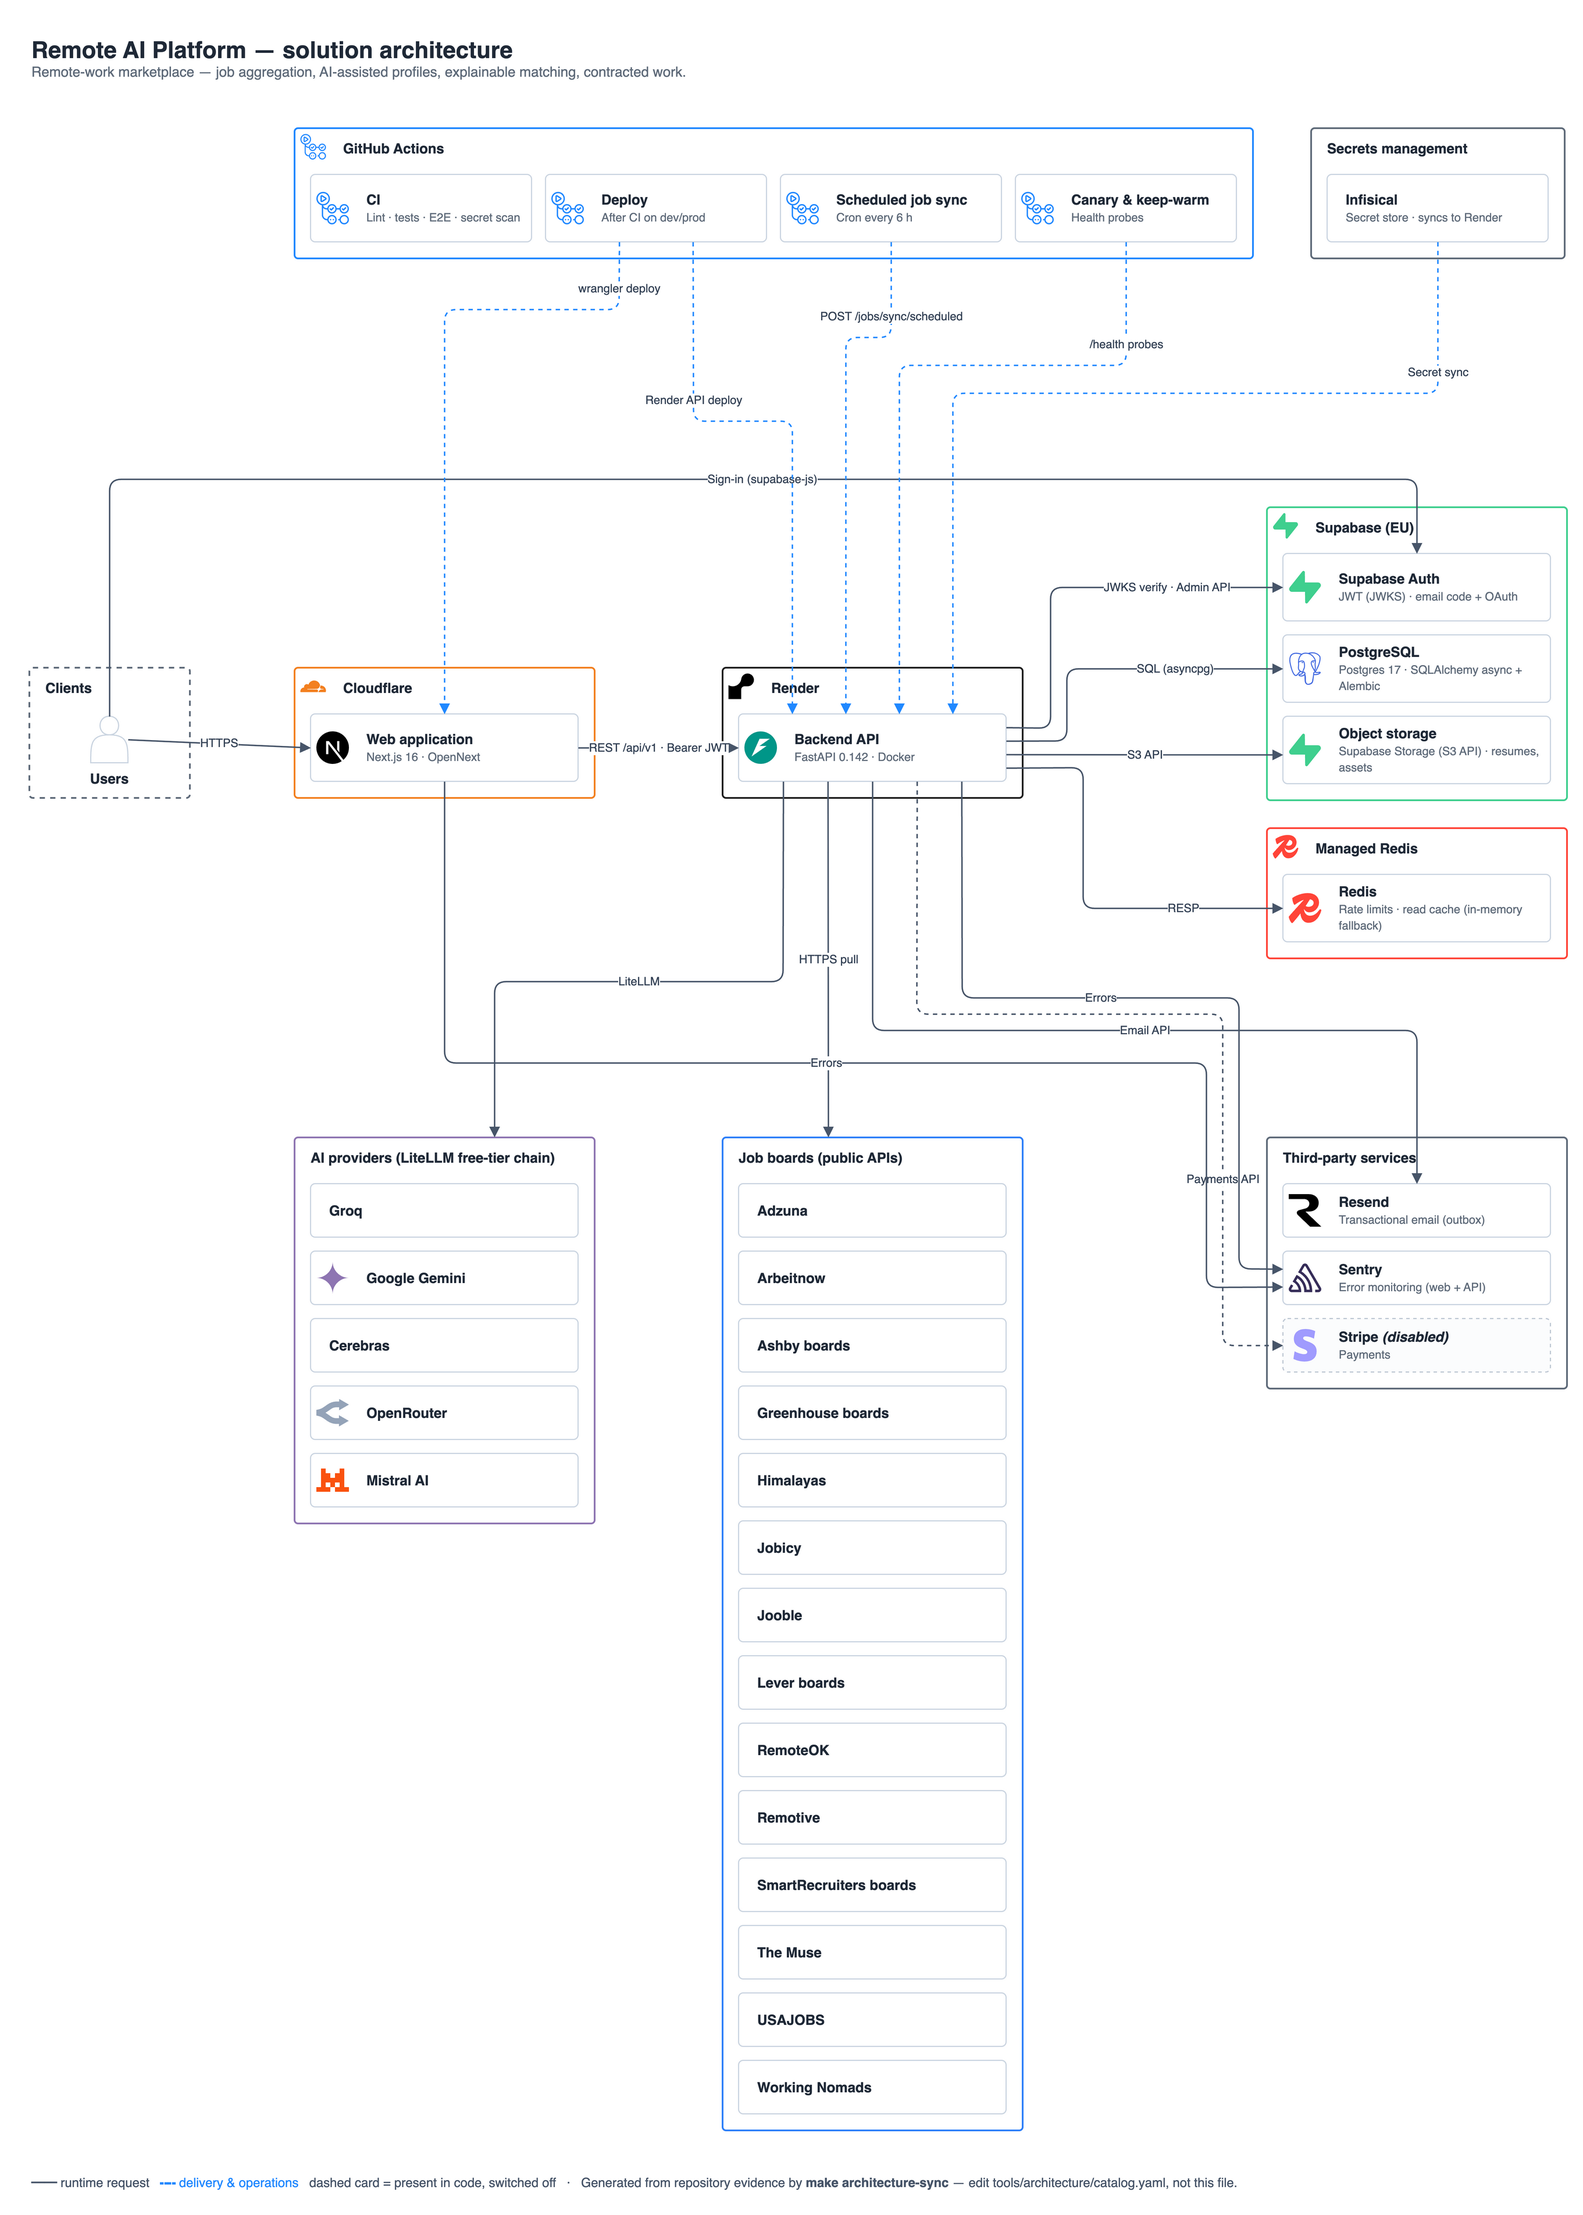
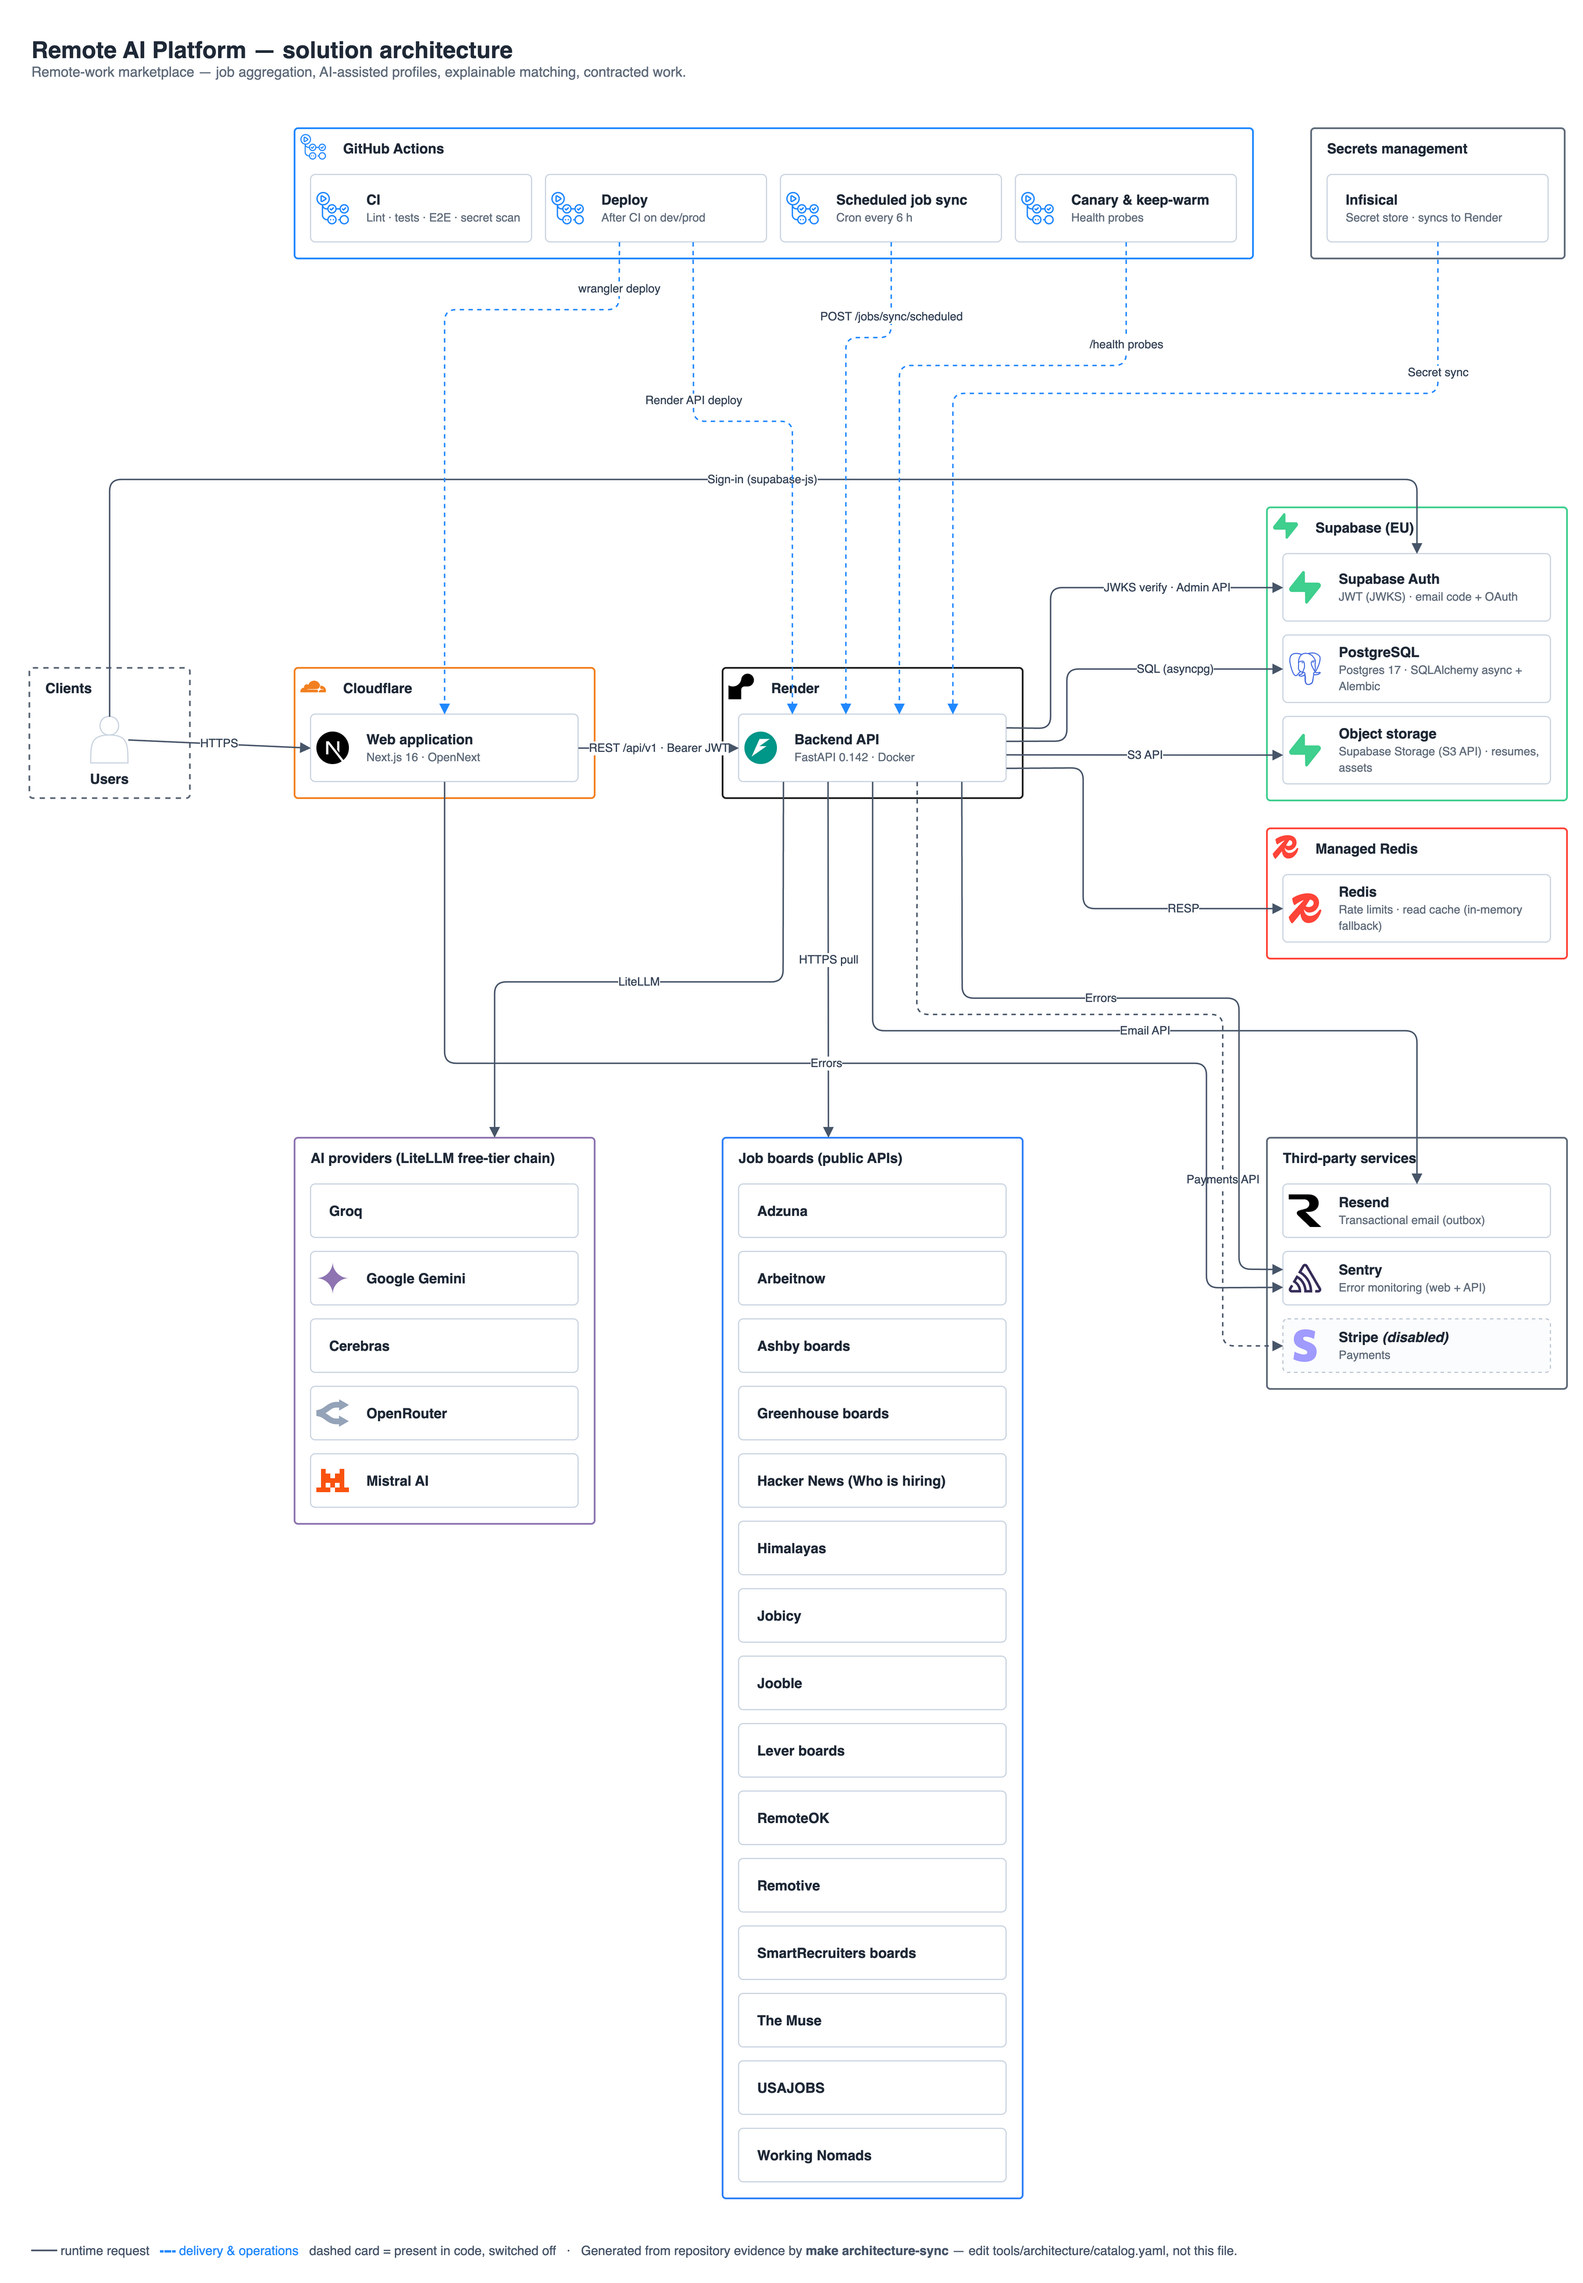
feat(jobs): Hacker News 'Who is hiring?' source; bigger per-run caps on the worker
- New free source: the monthly Ask HN: Who is hiring? thread via the Algolia HN API (~200
  employer posts a month), parsed to company, role and place, linking back to each post.
- Imports run on GitHub's runner now, so the per-source cap rises to 10,000 and Arbeitnow
  reads up to 50 pages.

diff --git a/apps/api/app/domains/jobs/aggregators/public_boards.py b/apps/api/app/domains/jobs/aggregators/public_boards.py
@@ -11,6 +11,7 @@ default to large employers whose public boards were verified live.
 
 import asyncio
 import html
+import re
 from datetime import UTC, datetime
 
 import httpx
@@ -415,3 +416,81 @@ class JoobleAggregator(_Board):
             if job:
                 out.append(job)
         return out
+
+
+ROLE_WORDS = re.compile(
+    r"engineer|developer|programmer|designer|manager|scientist|analyst|architect|"
+    r"\blead\b|head of|director|researcher|recruiter|writer|marketer|sales|support|"
+    r"devops|\bsre\b|\bqa\b|founding|\broles?\b|positions|intern|specialist|consultant",
+    re.I,
+)
+
+
+class HackerNewsAggregator(_Board):
+    """Hacker News "Ask HN: Who is hiring?" (monthly), via the free Algolia HN API.
+    Each top-level post is one employer: "Company | Role | Location | Remote | ...";
+    the job links back to the post."""
+
+    source_name = "HACKERNEWS"
+
+    async def fetch_jobs(self, limit: int = 100) -> list[JobPostCreate]:
+        try:
+            async with httpx.AsyncClient(timeout=TIMEOUT) as client:
+                s = await client.get(
+                    "https://hn.algolia.com/api/v1/search_by_date",
+                    params={
+                        "tags": "story,author_whoishiring",
+                        "query": "who is hiring",
+                        "hitsPerPage": 5,
+                    },
+                )
+                s.raise_for_status()
+                story = next(
+                    h for h in s.json()["hits"] if h["title"].startswith("Ask HN: Who is hiring?")
+                )
+                r = await client.get(f"https://hn.algolia.com/api/v1/items/{story['objectID']}")
+                r.raise_for_status()
+                posts = r.json().get("children", [])
+        except Exception as e:
+            raise SourceFetchError(type(e).__name__) from e
+        out = []
+        for p in posts:
+            text = p.get("text") or ""
+            if not text or not p.get("id"):
+                continue
+            first = html.unescape(text.split("<p>")[0])
+            parts = [self.clean_text(x) for x in first.split("|") if self.clean_text(x)]
+            if len(parts) < 2:
+                continue
+            company = (
+                re.sub(
+                    r"\s*(https?://\S+|\(?[\w.-]+\.(com|io|ai|co|dev|org|net)\)?)\s*", " ", parts[0]
+                ).strip()
+                or parts[0]
+            )
+            role = next((x for x in parts[1:] if ROLE_WORDS.search(x) and "http" not in x), "")
+            if not role:
+                continue
+            # Prefer a field naming a place ("Berlin, Germany"), then a work mode.
+            others = [x for x in parts[1:] if x != role and not ROLE_WORDS.search(x)]
+            where = next((x for x in others if "," in x), "") or next(
+                (
+                    x
+                    for x in others
+                    if any(w in x.lower() for w in (*REMOTE_WORDS, "onsite", "hybrid"))
+                ),
+                "",
+            )
+            job = self._job(
+                ext_id=str(p["id"]),
+                title=role,
+                company=company,
+                url=f"https://news.ycombinator.com/item?id={p['id']}",
+                description=html.unescape(text),
+                location=where or "See post",
+                remote=_remote(first) or None,
+                tags=parts[2:],
+            )
+            if job:
+                out.append(job)
+        return out[:limit]

diff --git a/apps/api/tests/test_public_job_boards.py b/apps/api/tests/test_public_job_boards.py
@@ -277,3 +277,34 @@ async def test_one_bad_job_never_discards_the_whole_source(db: AsyncSession, mon
     service.aggregators = [Mixed()]
     stats = await service.sync_all_job_sources(source_name="MIXED", run_maintenance=False)
     assert stats == {"MIXED": 3}
+
+
+@pytest.mark.asyncio
+async def test_hacker_news_who_is_hiring_posts_become_jobs(monkeypatch):
+    thread = {"hits": [{"objectID": "99", "title": "Ask HN: Who is hiring? (October 2026)"}]}
+    items = {
+        "children": [
+            {
+                "id": 1,
+                "text": "Acme (acme.io) | ONSITE | Senior Backend Engineer, SRE | Berlin, Germany<p>We use Python.",
+            },
+            {"id": 2, "text": "Just a comment without a role"},
+        ]
+    }
+
+    def handler(request: httpx.Request) -> httpx.Response:
+        return httpx.Response(200, json=thread if "search_by_date" in request.url.path else items)
+
+    real = httpx.AsyncClient
+    monkeypatch.setattr(
+        pb.httpx, "AsyncClient", lambda **kw: real(transport=httpx.MockTransport(handler), **kw)
+    )
+    jobs = await pb.HackerNewsAggregator().fetch_jobs(limit=10)
+    assert len(jobs) == 1
+    j = jobs[0]
+    assert (j.company_name, j.title, j.location) == (
+        "Acme",
+        "Senior Backend Engineer, SRE",
+        "Berlin, Germany",
+    )
+    assert j.external_url == "https://news.ycombinator.com/item?id=1"

diff --git a/apps/api/app/core/config.py b/apps/api/app/core/config.py
@@ -190,7 +190,7 @@ class Settings(BaseSettings):
     USAJOBS_AUTH_KEY: str | None = None
     THEMUSE_API_URL: str = "https://www.themuse.com/api/public/jobs"
     # Arbeitnow serves 100 jobs per page; read this many pages per sync.
-    ARBEITNOW_MAX_PAGES: int = 20
+    ARBEITNOW_MAX_PAGES: int = 50
     # Public company career boards (comma-separated board names), verified live.
     GREENHOUSE_BOARDS: str = (
         "stripe,gitlab,cloudflare,datadog,figma,discord,duolingo,reddit,coinbase,robinhood,elastic,"
@@ -249,7 +249,7 @@ class Settings(BaseSettings):
     JOB_RETENTION_DAYS: int = 90
 
     JOB_SYNC_SCHEDULE: str = "17 */3 * * *"  # Every 3 hours (.github/workflows/scheduled-job-sync.yml)
-    JOB_SYNC_MAX_PER_SOURCE: int = 2500
+    JOB_SYNC_MAX_PER_SOURCE: int = 10000
     # Secret for the scheduled sync (POST /jobs/sync/scheduled). Grants that one
     # action only; empty disables the endpoint. At least 32 characters.
     JOB_SYNC_TOKEN: str = ""

diff --git a/apps/api/app/domains/jobs/service.py b/apps/api/app/domains/jobs/service.py
@@ -20,6 +20,7 @@ from app.domains.jobs.aggregators.public_boards import (
     AdzunaAggregator,
     AshbyAggregator,
     GreenhouseAggregator,
+    HackerNewsAggregator,
     HimalayasAggregator,
     JobicyAggregator,
     JoobleAggregator,
@@ -50,6 +51,7 @@ AGGREGATORS = (
     JobicyAggregator,
     HimalayasAggregator,
     WorkingNomadsAggregator,
+    HackerNewsAggregator,
     GreenhouseAggregator,
     LeverAggregator,
     AshbyAggregator,
